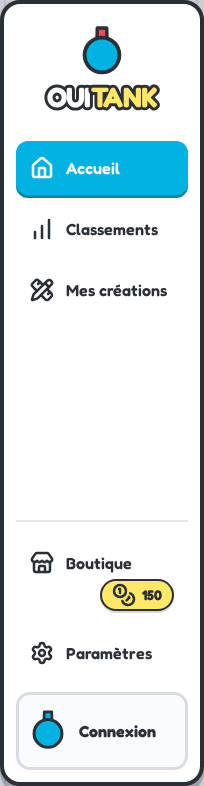
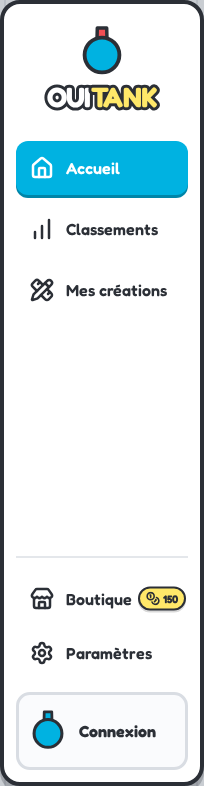
fix(web): float the sidebar balance over the shop row
The wrap fix made the shop button two lines tall. Position the compact
OuiCoins pill absolutely outside the button's flow instead, so the row
keeps its normal height while the long localized label and the balance
both stay inside the card. The pill lets clicks through to the shop,
and the button's aria-label still carries the balance.

Changed region(s): [[0.3235, 0.7023, 0.9118, 0.7939], [0.1471, 0.7023, 0.2647, 0.7939]]

diff --git a/apps/web/src/components/layout/Sidebar.tsx b/apps/web/src/components/layout/Sidebar.tsx
@@ -126,19 +126,25 @@ export const Sidebar = () => {
             <Shield /> <span>{t("nav.admin")}</span>
           </NavLink>
         )}
-        <button
-          type="button"
-          className={cn(
-            "sidebar-link sidebar-shop tab-pressable",
-            activeModal === MODALS.SHOP && "is-active"
-          )}
-          onClick={() => openModal(MODALS.SHOP)}
-          aria-label={t("shop.openWithBalance", { count: coins })}
-          {...tabPressHandlers<HTMLButtonElement>()}
-        >
-          <Store /> <span>{t("nav.shop")}</span>
-          <CoinChip coins={coins} className="ml-auto" />
-        </button>
+        <div className="sidebar-shop-wrap">
+          <button
+            type="button"
+            className={cn(
+              "sidebar-link tab-pressable",
+              activeModal === MODALS.SHOP && "is-active"
+            )}
+            onClick={() => openModal(MODALS.SHOP)}
+            aria-label={t("shop.openWithBalance", { count: coins })}
+            {...tabPressHandlers<HTMLButtonElement>()}
+          >
+            <Store /> <span>{t("nav.shop")}</span>
+          </button>
+          {/* Floats over the row so the long localized label never stretches
+              the button or pushes the balance out of the sidebar. */}
+          <span className="sidebar-shop-balance" aria-hidden="true">
+            <CoinChip coins={coins} size={14} className="sidebar-shop-chip" />
+          </span>
+        </div>
         <button
           type="button"
           className={cn(

diff --git a/apps/web/src/menu.css b/apps/web/src/menu.css
@@ -72,12 +72,24 @@
   flex-shrink: 0;
   stroke-width: 2.5;
 }
-/* Long localized labels (e.g. French "Boutique") plus the balance pill do not
-   fit on one line in the narrow sidebar. Let the pill drop to its own, right-
-   aligned line instead of spilling past the card. */
-.sidebar-shop {
-  flex-wrap: wrap;
-  row-gap: 4px;
+/* The balance floats over the shop row instead of taking part in its layout:
+   the long localized label (French "Boutique") can never make the button
+   taller or push the pill past the sidebar. */
+.sidebar-shop-wrap {
+  position: relative;
+}
+.sidebar-shop-balance {
+  position: absolute;
+  top: 50%;
+  right: 2px;
+  transform: translateY(-50%);
+  pointer-events: none;
+}
+.sidebar-shop-chip {
+  padding: 2px 6px;
+  gap: 3px;
+  font-size: 11px;
+  line-height: 16px;
 }
 .sidebar-link:hover {
   background: #eef6f9;
@@ -681,6 +693,9 @@
     align-items: center;
   }
   .sidebar-utilities .sidebar-link span {
+    display: none;
+  }
+  .sidebar-shop-balance {
     display: none;
   }
   .sidebar-account {

diff --git a/artifacts/tank-shop/README.md b/artifacts/tank-shop/README.md
@@ -97,9 +97,10 @@ catalogue.
 ## Sidebar overflow fix
 
 The OuiCoins pill next to the shop label spilled past the sidebar on narrow
-desktop widths and longer locales (French "Boutique"). The shop row now wraps
-the pill onto its own right-aligned line when it does not fit, so the balance
-stays inside the card.
+desktop widths and longer locales (French "Boutique"). It now floats over the
+right end of the row, outside the button's layout, so the row stays one line
+and the balance stays inside the card. The pill is `aria-hidden` (the button's
+label already includes the balance) and lets clicks through to the shop.
 
 | Before — fr, 1440px                       | After — fr, 1440px                      |
 | ----------------------------------------- | --------------------------------------- |
